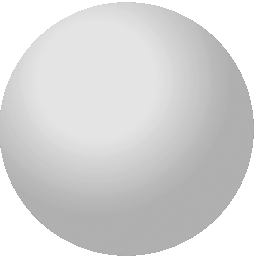
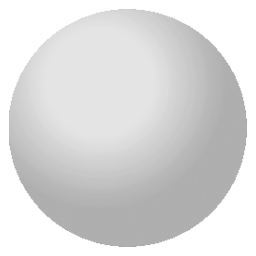
Added larger pixel gap around the edge of files.
This reduces flickering artifacts on the edge of files.

Changed region(s): [[0.0, 0.0, 1.0, 1.0]]

diff --git a/src/file.cpp b/src/file.cpp
@@ -26,7 +26,7 @@ FXFont file_font;
 
 RFile::RFile(const std::string & name, const vec3f & colour, const vec2f & pos, int tagid) : Pawn(name,pos,tagid) {
     hidden = true;
-    size = gGourceFileDiameter;
+    size = gGourceFileDiameter * 1.05;
     radius = size * 0.5;
 
     setGraphic(gGourceSettings.file_graphic);
